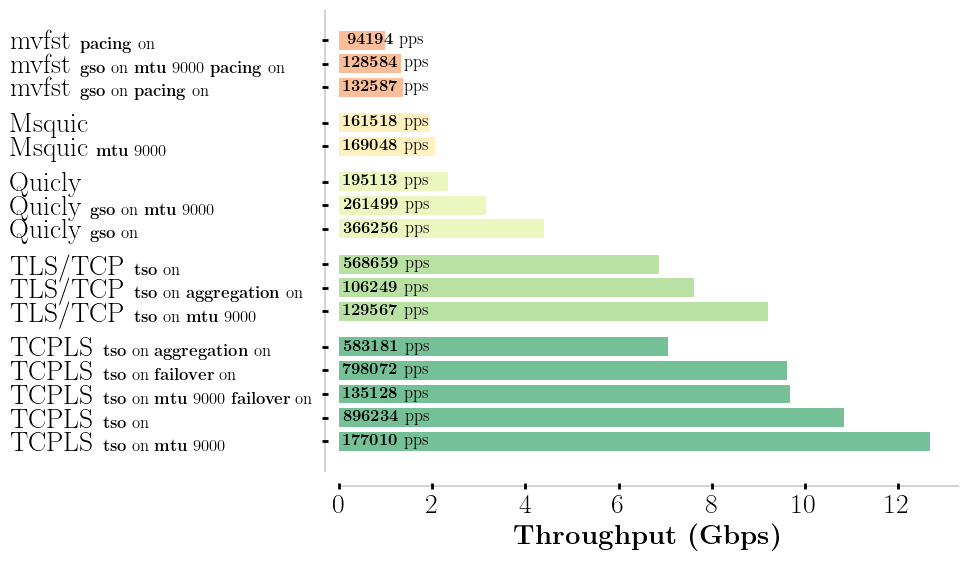
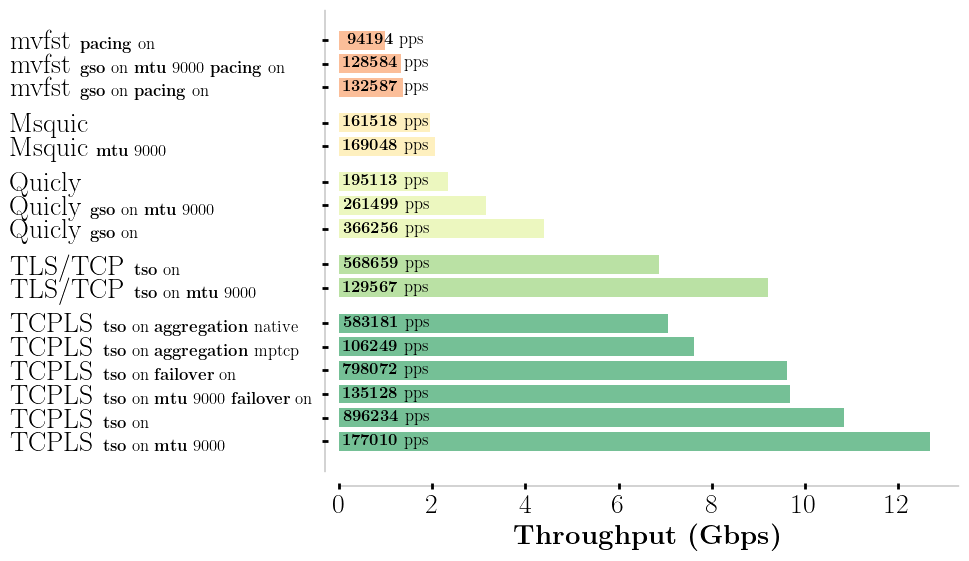
update perf figure

Changed region(s): [[0.3406, 0.4848, 0.805, 0.6364], [0.0, 0.5152, 0.3096, 0.6364]]

diff --git a/pretty_plotify/plot_perf.py b/pretty_plotify/plot_perf.py
@@ -60,7 +60,7 @@ def main():
     #bar_height_pps_sorted = [(x[0], mapping[x[0]]) for x in bar_height_bw]
     #bar_height_pps = bar_height_pps_sorted
     y_pos = np.arange(len(bar_height_bw))
-    y_pos = [ 0,  1,  2,  3,  4,  5.5,  6.5,  7.5 , 9,  10, 11, 12.5, 13.5 ,15 , 16, 17]
+    y_pos = [ 0,  1,  2,  3,  4,  5,  6.5,  7.5 , 9,  10, 11, 12.5, 13.5 ,15 , 16, 17]
     #data plotting
     fig, ax = plt.subplots(figsize=(8,6))
 
@@ -72,8 +72,8 @@ def main():
 #             cmap[2],cmap[0],
 #             cmap[1],cmap[5],cmap[0]]
 
-    colors = [cmap[5],cmap[5], cmap[5],cmap[5],cmap[5],
-          cmap[4], cmap[4],cmap[4],
+    colors = [cmap[5],cmap[5], cmap[5],cmap[5],cmap[5],cmap[5],
+          cmap[4], cmap[4],
           cmap[3],cmap[3],cmap[3],
           cmap[2],cmap[2],
           cmap[1],cmap[1],cmap[1]]
